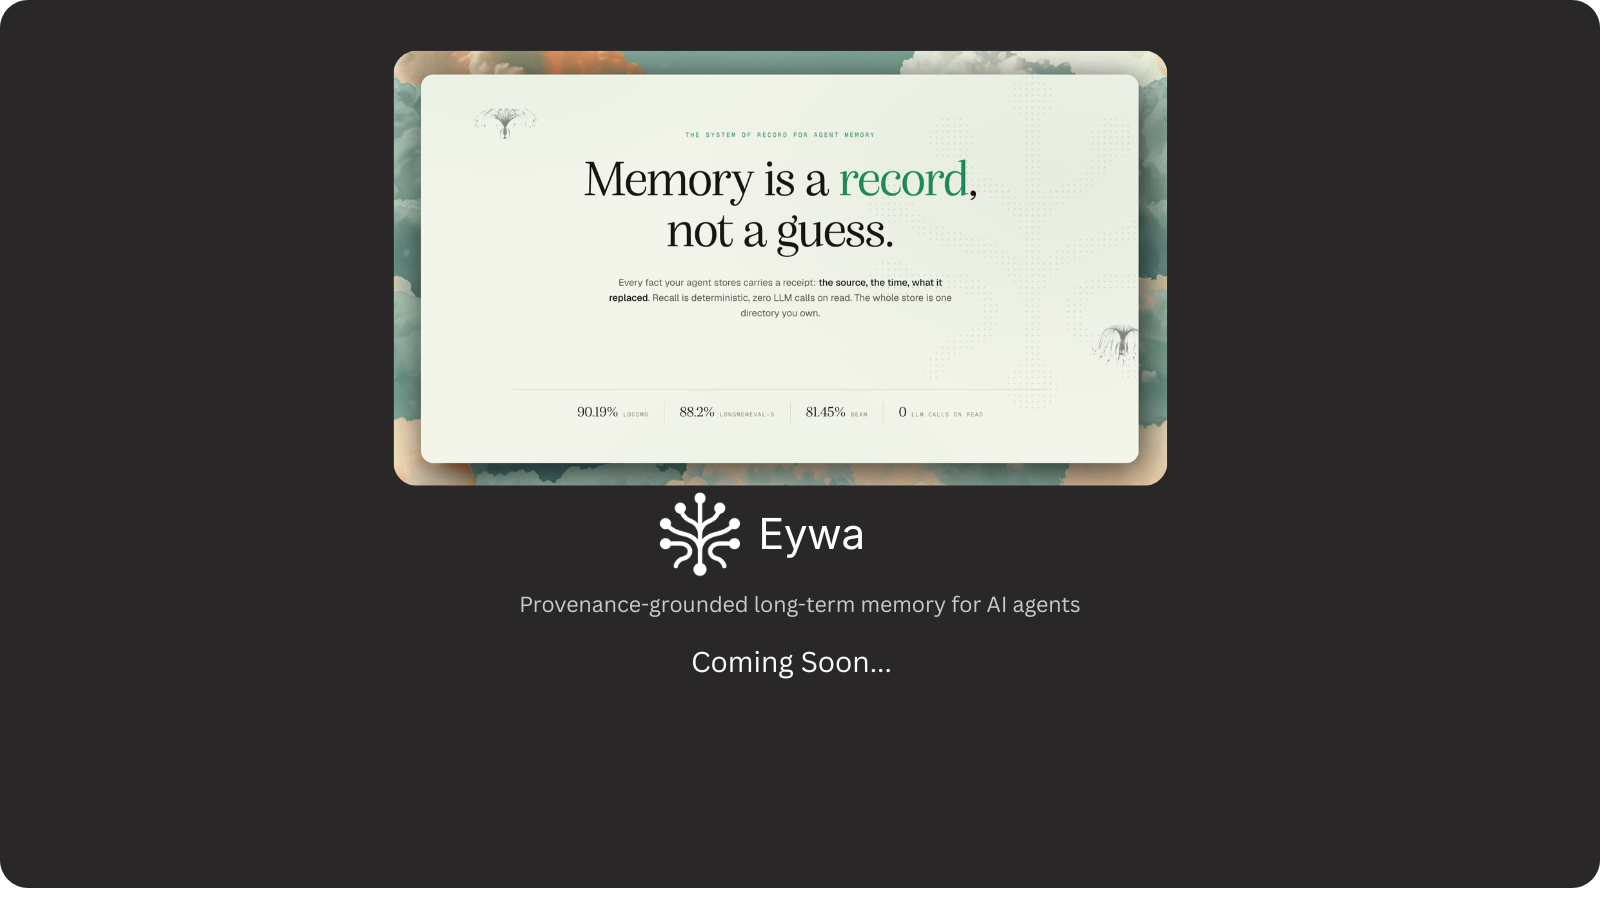
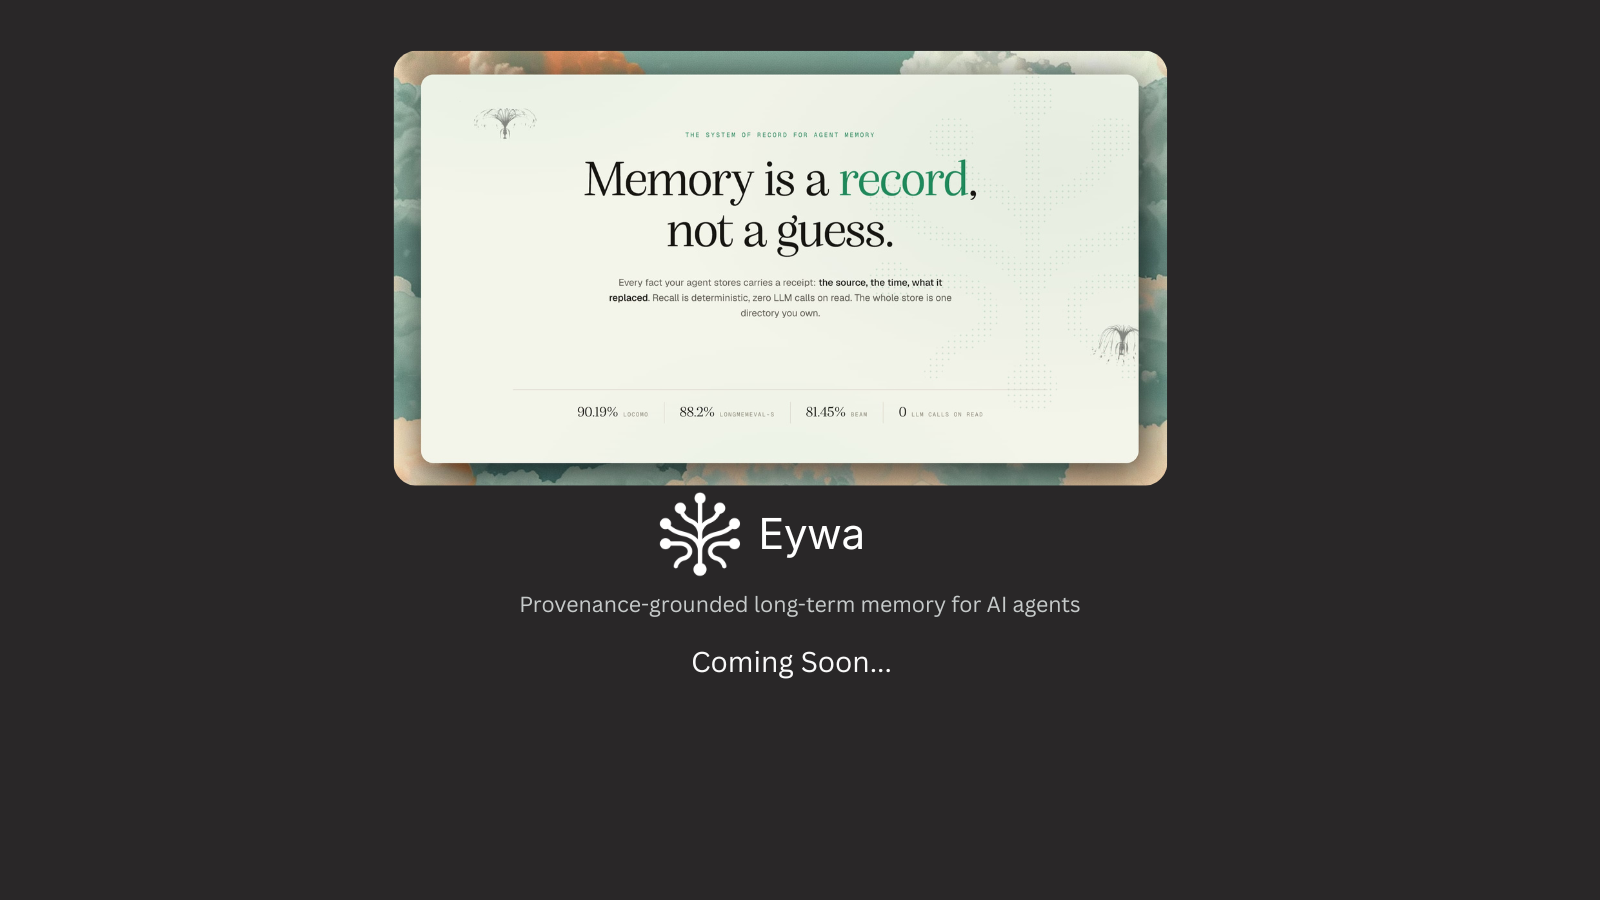
docs: place the Eywa card directly below the hero (#3)
Move the Eywa card image below the hero banner and update to the latest export.

Changed region(s): [[0.0, 0.9644, 1.0, 1.0], [0.9688, 0.0, 1.0, 0.0311], [0.0, 0.0, 0.0312, 0.0311]]

diff --git a/profile/README.md b/profile/README.md
@@ -4,6 +4,8 @@
   </picture>
 </a>
 
+<img src="https://raw.githubusercontent.com/getagentseal/.github/main/profile/eywa.png" alt="Eywa: provenance-grounded long-term memory for AI agents (coming soon)" style="border-radius: 12px;" />
+
 <p align="center">
   <a href="https://agentseal.org">Website</a>
   ·
@@ -25,8 +27,6 @@ We build open-source tools for developers who code with AI agents. Two problems 
 **[AgentSeal](https://github.com/getagentseal/agentseal)** finds security gaps before attackers do. 300+ deterministic probes test for prompt extraction and injection. Local scans catch poisoned MCP servers, malicious skill files, and hidden config changes across 17 agents. No API keys, no LLM judges, same result every time.
 
 **Eywa** *(coming soon)* is provenance-grounded long-term memory for AI agents.
-
-<img src="https://raw.githubusercontent.com/getagentseal/.github/main/profile/eywa.png" alt="Eywa: provenance-grounded long-term memory for AI agents (coming soon)" style="border-radius: 12px;" />
 
 ## Getting Started
 